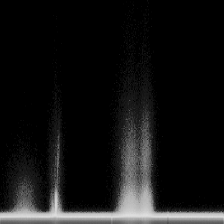
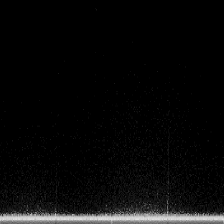
Merge origin/main into main Rozwijamy interfejs. Klasyfikator uruchomiony # Conflicts: #	src/graphs/BasicGraph.java #	src/graphs/DirGridGraph.java #	src/graphs/Edge.java #	src/graphs/EdgeInterface.java #	src/graphs/Graph.java #	src/graphs/GraphAlgorithms.java #	src/graphs/GraphBuilder.java #	src/gra

Changed region(s): [[0.0, 0.4062, 1.0, 1.0]]

diff --git a/src/prpdtool/PRPDTool.java b/src/prpdtool/PRPDTool.java
@@ -19,6 +19,7 @@ import java.io.IOException;
 import java.io.PrintWriter;
 import java.nio.file.Paths;
 import java.util.HashMap;
+import java.util.Locale;
 import java.util.Map;
 import java.util.function.DoubleConsumer;
 import java.util.function.DoubleSupplier;
@@ -38,19 +39,18 @@ import parallelprpd.pipeline.Pulses;
 
 public class PRPDTool extends JFrame {
 
-/* mac 
+    /* mac */
     private static String host = "mac";
     private static String home = "/Users/jstar/";
     private static String python = "/Users/jstar/anaconda3/bin/python";
-*/
+    /* */
 
- /* oer */
+ /* oer 
     private static String host = "oer";
     private static String home = "/home/jstar/";
     private static String python = "/usr/bin/python";
- /*    */
-    
-    private static String pyclassifier = home + "NetBeansProjects/PRPDtool/models/file_predict.py";
+     */
+    private static String pyclassifier = home + "NetBeansProjects/PRPDTool/models/file_predict.py";
 
     private static String model = home + "NetBeansProjects/PRPDtool/models/" + host + "_classprpd.onnx";
 
@@ -91,6 +91,7 @@ public class PRPDTool extends JFrame {
     private double f0 = 50;
     private double t0 = 0;
     private double fs = 1_000_000;  // próbkowanie 
+    private double dfs = fs;  // próbkowanie z danych
     private double threshold = 0.012; //próg detekcji impulsu po odjęciu tła
     private double ampMax = 0.12; // max amplituda immpulsu
     private double deadUs = 30; //martwy czas po wykryciu impulsu [µs]
@@ -515,6 +516,7 @@ public class PRPDTool extends JFrame {
         }
         lasttu[0] = Double.parseDouble(last[0]);
 
+        dfs = fs;
         Filter filter = new HighPassFilter(fs, cutF, filterQ, filterOrder);
         Filter abs = new Filter() {
             @Override
@@ -589,6 +591,9 @@ public class PRPDTool extends JFrame {
 
             @Override
             public void pulsesReady(Pulses pulses) {
+                if (pulses.fs != fs) {
+                    dfs = pulses.fs;
+                }
                 histogram.addPulses(pulses);
                 center.repaint();
             }
@@ -598,6 +603,14 @@ public class PRPDTool extends JFrame {
                 setTitle("PRPD Viewer - finished: " + Paths.get(filename).getFileName().toString());
                 setCursor(Cursor.getDefaultCursor());
                 classifyButton.setEnabled(true);
+                if (Math.abs((dfs-fs)/fs) > 1e-8) {
+                    JOptionPane.showMessageDialog(
+                            PRPDTool.this,
+                            "The sampling frequency estimated from data is " + String.format(Locale.US, "%.6g", dfs) + " Hz",
+                            "Error",
+                            JOptionPane.ERROR_MESSAGE
+                    );
+                }
             }
 
             @Override

diff --git a/src/parallelprpd/pipeline/Pulses.java b/src/parallelprpd/pipeline/Pulses.java
@@ -10,6 +10,7 @@ public class Pulses {
     public final double[] amp;
     public int size;
     public int n;
+    public double fs;
 
     public Pulses(double[] t, double[] phase, double[] amp, int size) {
         this.t = t;

diff --git a/src/parallelprpd/pipeline/PRPDExtractorCore.java b/src/parallelprpd/pipeline/PRPDExtractorCore.java
@@ -44,6 +44,7 @@ public class PRPDExtractorCore {
 
         double fs = estimateFs(b.t, n);
         filter.setFs(fs);
+        pulses.fs = fs;
 
         int deadN = Math.max(1, (int) Math.round(deadUs * 1e-6 * fs));
 
